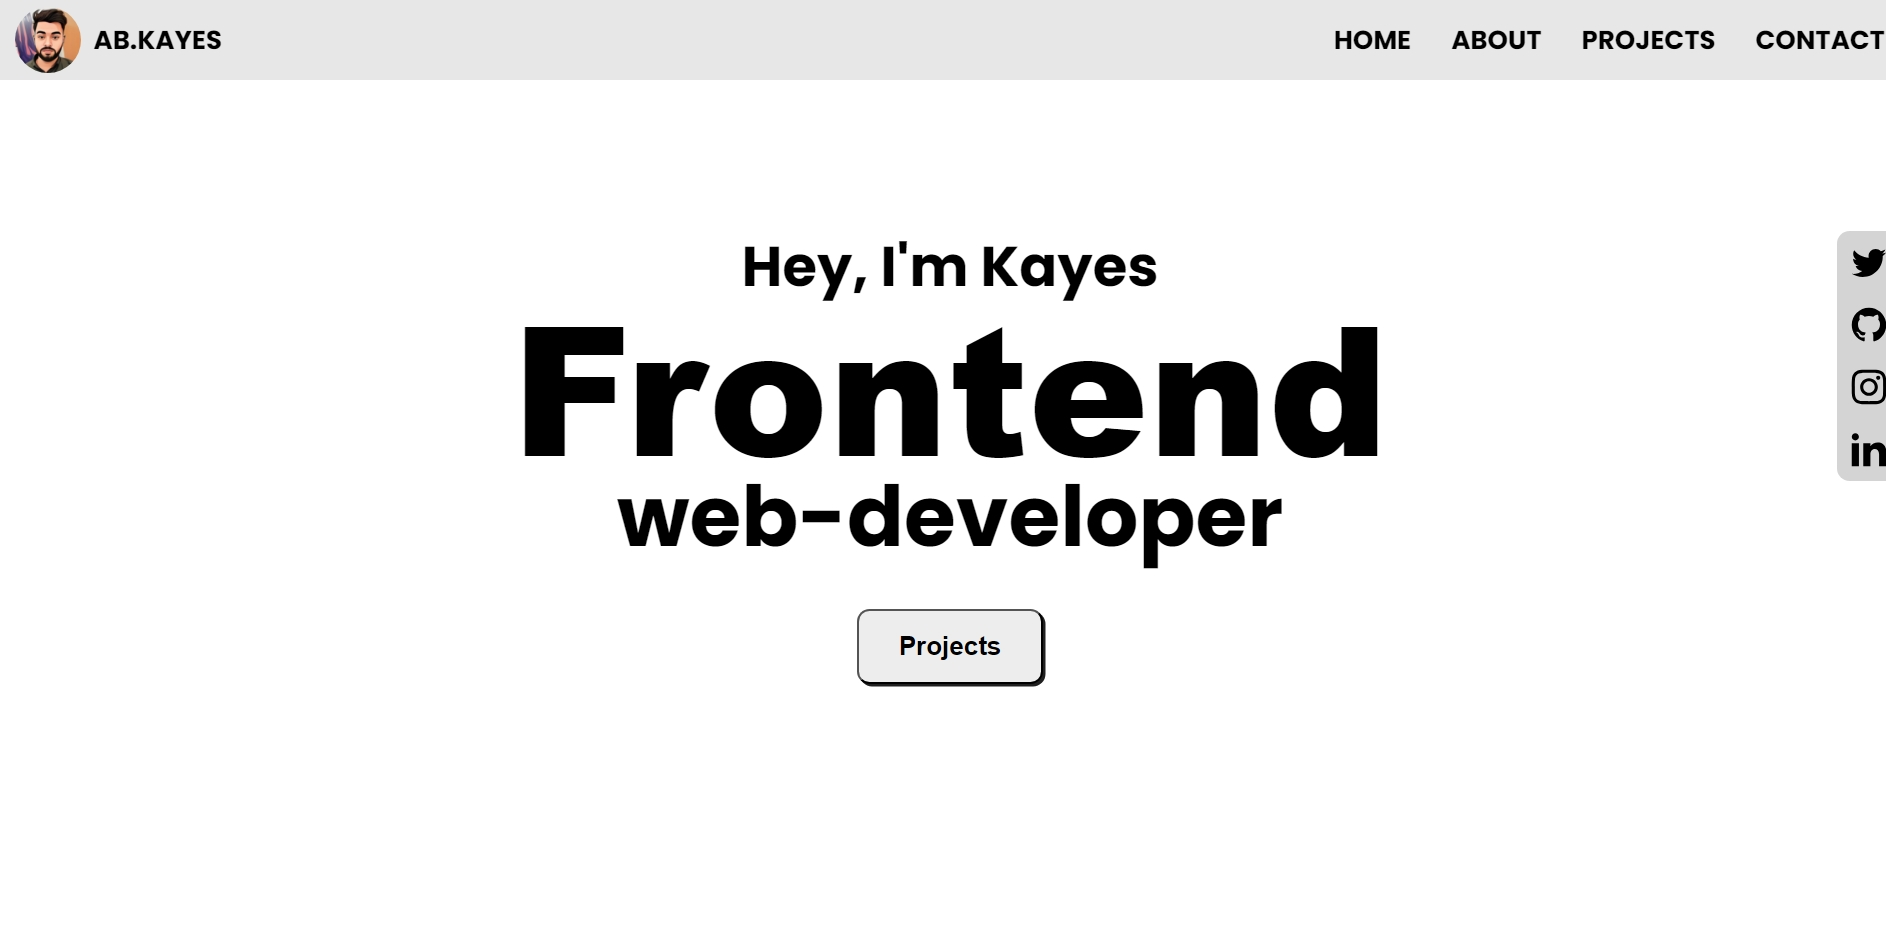
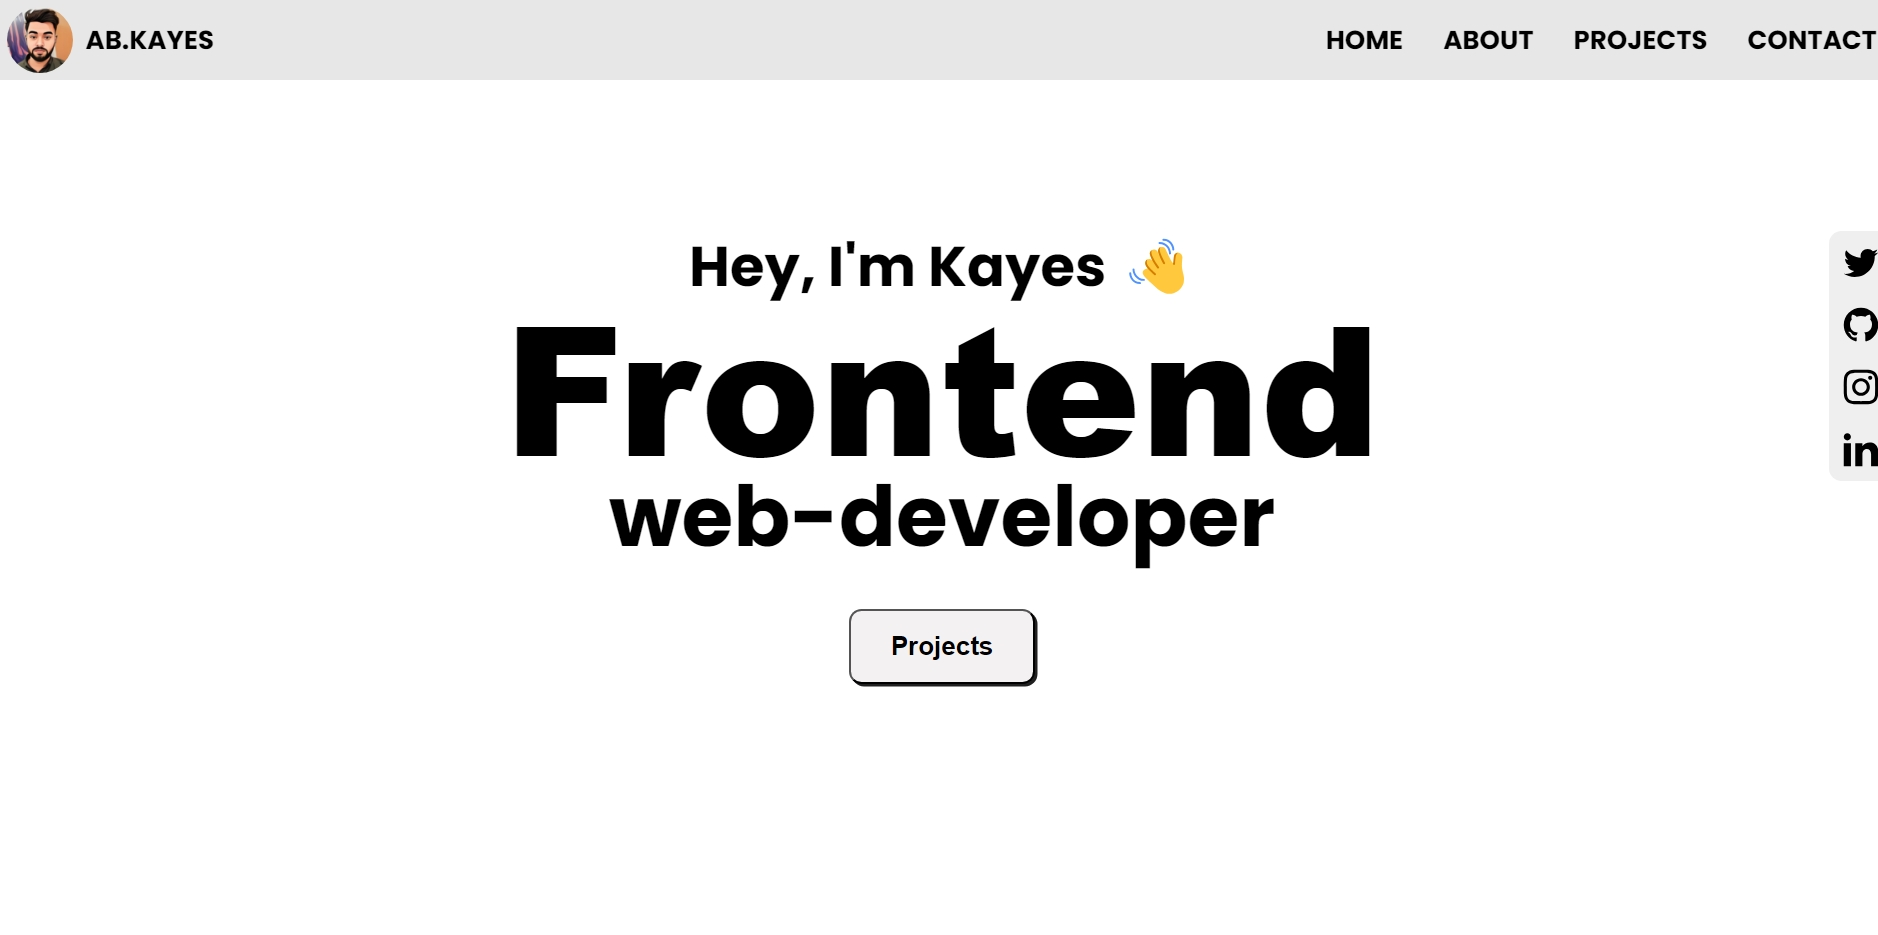
minor edits

diff --git a/index.html b/index.html
@@ -62,7 +62,7 @@ wght@0,100;0,200;0,300;0,400;0,500;0,600;0,700;0,800;0,900;1,100;1,
         </div>
           <div id="intro" class="intro">
             <div class="intro-name">
-              <h4>Hey, I'm Kayes</h4>
+              <h4>Hey, I'm Kayes 👋</h4>
               <h1>Frontend</h1>
               <h2>web-developer</h2>
               <a href="./#projects">
@@ -76,33 +76,31 @@ wght@0,100;0,200;0,300;0,400;0,500;0,600;0,700;0,800;0,900;1,100;1,
         <div class="about-me">  
           <div class="about-des">
             <h3>Get to know me!</h3>
-            <p>I'm a Frontend Focused Web Developer building and managing 
-              the Front-end of Websites and Web Applications that leads to 
-              the success of the overall product. Check out some of my work 
-              in the Projects section. I also like sharing content related 
-              to the stuff that I have learned over the years in Web 
-              Development so it can help other people of the Dev Community.
-            <br><br>
-              I also like sharing content related to the stuff that I have
-               learned over the years in Web Development so it can help other
-                people of the Dev Community. Feel free to Connect or Follow 
-                me on my Linkedin and Instagram where I post useful content
-                 related to Web Development and Programming
+            <p>I'm a frontend web developer specializing in React.js 🚀, focused on building dynamic and scalable 
+              applications that prioritize performance and user experience. Proficient in HTML5 ✨, CSS3 🎨, and 
+              JavaScript (ES6+) 💻, I continuously explore new tools like Recharts 📊 for data visualization and Vite ⚡ for modern builds.
+              <br><br>
+              I enjoy tackling challenges related 
+              to responsive design and ensuring accessibility across all platforms. My portfolio includes projects where I've 
+              implemented effective UI/UX principles, resulting in engaging user experiences that drive satisfaction and retention 🌟🎉.
+              <br><br>
+              My projects reflect my passion for creating seamless, responsive user interfaces across devices 📱💻. 
+              I'm always open to exciting projects and collaborations—feel free to explore my work and get in touch! 🤝✨
             </p>
           </div>
           <div class="about-skills">
             <h3>Skills</h3>
             <div class="skills">
-              <div class="skill">React</div>
-              <div class="skill">Node.js</div>
-              <div class="skill">UI/UX design</div>
-              <div class="skill">JavaScript</div>
-              <div class="skill">C/C++</div>
-              <div class="skill">HTML</div>
-              <div class="skill">CSS</div>
-              <div class="skill">SEO</div>
-              <div class="skill">Git</div>
-              <div class="skill">Github</div>
+              <div class="skill">React.js 🚀</div>
+              <div class="skill">Node.js 🌐</div>
+              <div class="skill">JavaScript 💻</div>
+              <div class="skill">HTML ✨</div>
+              <div class="skill">CSS 🎨</div>
+              <div class="skill">UI/UX Design 🖌</div>
+              <div class="skill">SEO 🔍</div>
+              <div class="skill">Responsive Desing 📱</div>
+              <div class="skill">Git 🗂</div>
+              <div class="skill">Github 🐙</div>
             </div>
           </div>
         </div>
@@ -175,6 +173,7 @@ wght@0,100;0,200;0,300;0,400;0,500;0,600;0,700;0,800;0,900;1,100;1,
               </svg>
             </a>
           </div>
+          <div class="email">📧 arifbenkayes@gmail.com</div>
         </div>
     </div>
     <div class="footer-lower">

diff --git a/style.css b/style.css
@@ -213,7 +213,7 @@ nav{
     z-index: 100;
     backdrop-filter: blur(4px);
     border-radius: 10px;
-    background: #1718182f;
+    background: #a8a8a82f;
 }
 
 .social-icon-img{
@@ -311,7 +311,7 @@ form .btn{
     margin-top: 40px;
     border-radius: 10px;
     transition: .3s;
-    background: #eeeded;
+    background: #f3f1f1;
     box-shadow: 2px 2px #202020;
 }
 
@@ -384,7 +384,7 @@ form .btn{
     max-width: 17rem;
     min-width: 5rem; 
     color: #222121;  
-    background: #d8d8d8a2;
+    background: #e9e8e8a2;
 }
 
 .projects *{
@@ -513,10 +513,11 @@ footer h2{
 
 .footer-des{
     width: 60%;
+    max-width: 500px;
 }
 
 .footer-para {
-    font-size: .8rem;
+    font-size: 14px;
     padding: 10px;
     text-align: justify;
 }
